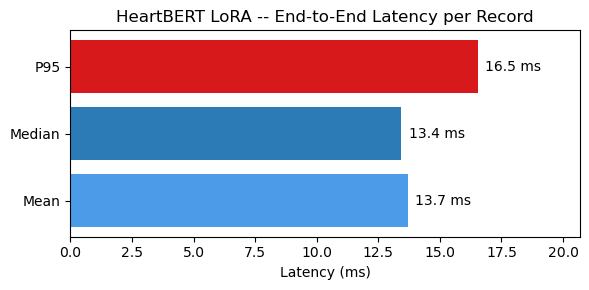
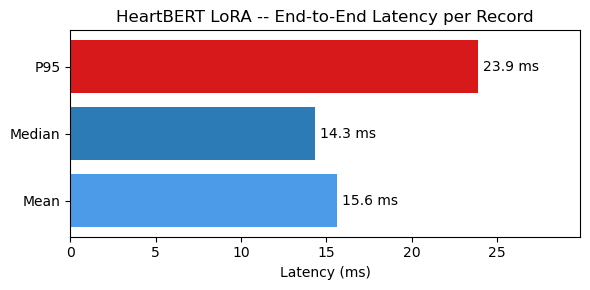
Update inference pipeline and benchmarks
Modify the inference pipeline implementation (src/inference/pipeline.py) and refresh related artifacts. Update the inference notebook execution metadata and outputs (notebooks/07_inference_pipeline.ipynb) including new timestamps, execution counts, and a small added warning log. Refresh benchmark results (results/07_inference_pipeline/latency.json and latency_chart.png) — observed mean latency changed from ~13.7 ms to ~15.6 ms, median from ~13.4 ms to ~14.3 ms, P95 from ~16.5 ms to ~23.9 ms, and throughput from ~74 to ~70 records/s.

diff --git a/src/inference/pipeline.py b/src/inference/pipeline.py
@@ -101,6 +101,43 @@ class ECGInferencePipeline:
         """Run predict() on a list of signals. Returns list of result dicts."""
         return [self.predict(s) for s in signals]
 
+    def benchmark(
+        self,
+        signals: list,
+        n_warmup: int = 5,
+        n_runs:   int = 50,
+    ) -> dict:
+        """
+        Measure end-to-end wall-clock latency per record (preprocessing + inference).
+
+        Returns dict with keys:
+            n_runs, device, latency_ms_mean, latency_ms_median,
+            latency_ms_p95, throughput_per_sec
+        """
+        import time
+        n = len(signals)
+
+        for i in range(n_warmup):
+            self.predict(signals[i % n])
+
+        times = []
+        for i in range(n_runs):
+            sig = signals[i % n]
+            t0  = time.perf_counter()
+            self.predict(sig)
+            times.append((time.perf_counter() - t0) * 1000)
+
+        times  = np.array(times)
+        median = float(np.median(times))
+        return {
+            'n_runs':             n_runs,
+            'device':             str(self.device),
+            'latency_ms_mean':    round(float(np.mean(times)),            3),
+            'latency_ms_median':  round(median,                           3),
+            'latency_ms_p95':     round(float(np.percentile(times, 95)), 3),
+            'throughput_per_sec': round(1000 / median,                    1),
+        }
+
     @staticmethod
     def _uncertainty_level(uncertainty: Optional[float]) -> str:
         """
@@ -216,6 +253,100 @@ class HeartBERTPipeline:
             t0  = time.perf_counter()
             self.predict(sig)
             times.append((time.perf_counter() - t0) * 1000)    # ms
+
+        times  = np.array(times)
+        median = float(np.median(times))
+        return {
+            'n_runs':             n_runs,
+            'device':             str(self.classifier.device),
+            'latency_ms_mean':    round(float(np.mean(times)),            3),
+            'latency_ms_median':  round(median,                           3),
+            'latency_ms_p95':     round(float(np.percentile(times, 95)), 3),
+            'throughput_per_sec': round(1000 / median,                    1),
+        }
+
+
+class ECGPTPipeline:
+    """
+    Inference pipeline for ECG-PT LoRA on PTB-XL 5-class classification.
+
+    Wraps an ECGPTClassifier and exposes the same predict() / benchmark() dict
+    interface as HeartBERTPipeline. Lead II is extracted and patch-tokenised
+    internally by the classifier, so this pipeline accepts the same raw
+    (1000, 12) or (12, 1000) signals as the other pipelines.
+
+    Usage
+    -----
+    pipeline = ECGPTPipeline(loaded_ecgpt_classifier)
+    result   = pipeline.predict(signal_np)
+    report   = pipeline.benchmark(signals, n_warmup=5, n_runs=50)
+    """
+
+    def __init__(self, classifier):
+        self.classifier = classifier
+        self.threshold  = CFG['inference']['threshold']
+
+    def predict(self, signal: np.ndarray) -> dict:
+        """
+        Run inference on a single ECG record.
+
+        Args:
+            signal: (12, 1000), (1000, 12), or (1000,) float32 numpy array.
+                    (1000, 12) is transposed to (12, 1000) automatically.
+                    Lead II (row index 1) is extracted and patch-tokenised.
+
+        Returns dict with keys:
+            predicted_classes, class_probabilities, confidence_score,
+            uncertainty (always None), raw_logits, uncertainty_level
+        """
+        if signal.shape == (1000, 12):
+            signal = signal.T          # -> (12, 1000)
+        if signal.ndim == 2:
+            signal = signal[1]         # Lead II, shape (1000,)
+
+        logits = self.classifier.predict_logits(signal[np.newaxis])   # (1, 5)
+        probs  = torch.sigmoid(torch.tensor(logits[0]))               # (5,)
+
+        thresholds = getattr(self, 'thresholds', None) or [self.threshold] * len(SUPERCLASSES)
+        predicted = [
+            SUPERCLASSES[i]
+            for i, p in enumerate(probs)
+            if p.item() >= thresholds[i]
+        ]
+        if not predicted:
+            predicted = [SUPERCLASSES[probs.argmax().item()]]
+
+        return {
+            'predicted_classes':   predicted,
+            'class_probabilities': {
+                c: round(probs[i].item(), 4)
+                for i, c in enumerate(SUPERCLASSES)
+            },
+            'confidence_score':    round(probs.max().item(), 4),
+            'uncertainty':         None,
+            'raw_logits':          logits[0].tolist(),
+            'uncertainty_level':   'N/A (deterministic model)',
+        }
+
+    def benchmark(
+        self,
+        signals: list,
+        n_warmup: int = 5,
+        n_runs:   int = 50,
+    ) -> dict:
+        """Measure end-to-end latency (Lead II extraction + tokenisation + inference)."""
+        import time
+        n = len(signals)
+
+        for i in range(n_warmup):
+            self.predict(signals[i % n])
+
+        times = []
+        for i in range(n_runs):
+            sig = signals[i % n]
+            t0  = time.perf_counter()
+            self.predict(sig)
+            times.append((time.perf_counter() - t0) * 1000)
 
         times  = np.array(times)
         median = float(np.median(times))
